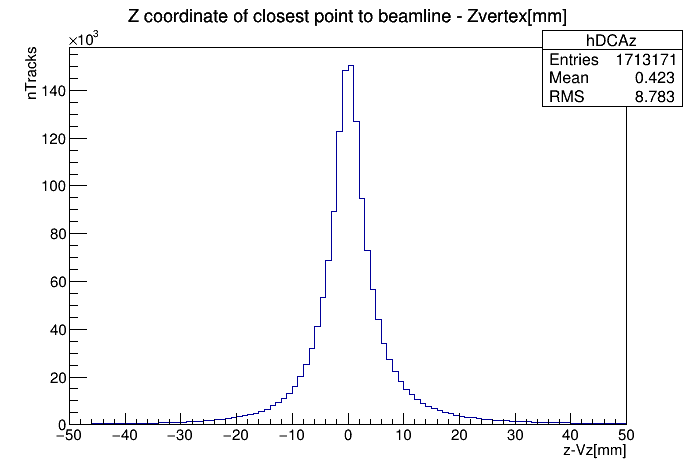
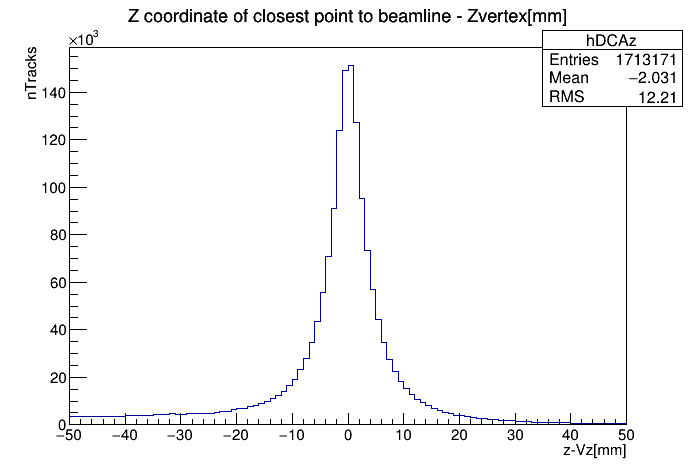
pics

diff --git a/results/DCAz.C b/results/DCAz.C
@@ -1,8 +1,8 @@
 {
 //=========Macro generated from canvas: c1/c1
-//=========  (Fri Nov 24 11:59:22 2017) by ROOT version5.34/34
+//=========  (Fri Nov 24 12:02:53 2017) by ROOT version5.34/34
    TCanvas *c1 = new TCanvas("c1", "c1",0,0,700,500);
-   c1->Range(-62.5,-19761.66,62.5,177854.9);
+   c1->Range(-62.5,-19872.83,62.5,178855.4);
    c1->SetFillColor(0);
    c1->SetBorderMode(0);
    c1->SetBorderSize(2);
@@ -10,108 +10,108 @@
    c1->SetFrameBorderMode(0);
    
    TH1F *hDCAz = new TH1F("hDCAz","Z coordinate of closest point to beamline - Zvertex[mm]",100,-50,50);
-   hDCAz->SetBinContent(0,197875);
-   hDCAz->SetBinContent(1,260);
-   hDCAz->SetBinContent(2,263);
-   hDCAz->SetBinContent(3,289);
-   hDCAz->SetBinContent(4,291);
-   hDCAz->SetBinContent(5,338);
-   hDCAz->SetBinContent(6,381);
-   hDCAz->SetBinContent(7,363);
-   hDCAz->SetBinContent(8,406);
-   hDCAz->SetBinContent(9,436);
-   hDCAz->SetBinContent(10,453);
-   hDCAz->SetBinContent(11,490);
-   hDCAz->SetBinContent(12,601);
-   hDCAz->SetBinContent(13,565);
-   hDCAz->SetBinContent(14,647);
-   hDCAz->SetBinContent(15,697);
-   hDCAz->SetBinContent(16,751);
-   hDCAz->SetBinContent(17,767);
-   hDCAz->SetBinContent(18,896);
-   hDCAz->SetBinContent(19,907);
-   hDCAz->SetBinContent(20,1066);
-   hDCAz->SetBinContent(21,1139);
-   hDCAz->SetBinContent(22,1288);
-   hDCAz->SetBinContent(23,1473);
-   hDCAz->SetBinContent(24,1549);
-   hDCAz->SetBinContent(25,1659);
-   hDCAz->SetBinContent(26,1822);
-   hDCAz->SetBinContent(27,2053);
-   hDCAz->SetBinContent(28,2367);
-   hDCAz->SetBinContent(29,2541);
-   hDCAz->SetBinContent(30,2949);
-   hDCAz->SetBinContent(31,3358);
-   hDCAz->SetBinContent(32,3699);
-   hDCAz->SetBinContent(33,4306);
-   hDCAz->SetBinContent(34,4922);
-   hDCAz->SetBinContent(35,5631);
-   hDCAz->SetBinContent(36,6548);
-   hDCAz->SetBinContent(37,8027);
-   hDCAz->SetBinContent(38,9157);
-   hDCAz->SetBinContent(39,10924);
-   hDCAz->SetBinContent(40,13198);
-   hDCAz->SetBinContent(41,15970);
-   hDCAz->SetBinContent(42,20122);
-   hDCAz->SetBinContent(43,25086);
-   hDCAz->SetBinContent(44,32054);
-   hDCAz->SetBinContent(45,41095);
-   hDCAz->SetBinContent(46,53184);
-   hDCAz->SetBinContent(47,68961);
-   hDCAz->SetBinContent(48,89469);
-   hDCAz->SetBinContent(49,122799);
-   hDCAz->SetBinContent(50,148171);
-   hDCAz->SetBinContent(51,150565);
-   hDCAz->SetBinContent(52,126801);
-   hDCAz->SetBinContent(53,94900);
-   hDCAz->SetBinContent(54,72889);
-   hDCAz->SetBinContent(55,56539);
-   hDCAz->SetBinContent(56,44029);
-   hDCAz->SetBinContent(57,34195);
-   hDCAz->SetBinContent(58,27328);
-   hDCAz->SetBinContent(59,22183);
-   hDCAz->SetBinContent(60,18087);
-   hDCAz->SetBinContent(61,14906);
-   hDCAz->SetBinContent(62,12493);
-   hDCAz->SetBinContent(63,10480);
-   hDCAz->SetBinContent(64,9126);
-   hDCAz->SetBinContent(65,7805);
-   hDCAz->SetBinContent(66,6799);
-   hDCAz->SetBinContent(67,5823);
-   hDCAz->SetBinContent(68,5150);
-   hDCAz->SetBinContent(69,4593);
-   hDCAz->SetBinContent(70,4006);
-   hDCAz->SetBinContent(71,3655);
-   hDCAz->SetBinContent(72,3228);
-   hDCAz->SetBinContent(73,2974);
-   hDCAz->SetBinContent(74,2613);
-   hDCAz->SetBinContent(75,2390);
-   hDCAz->SetBinContent(76,2181);
-   hDCAz->SetBinContent(77,2002);
-   hDCAz->SetBinContent(78,1819);
-   hDCAz->SetBinContent(79,1649);
-   hDCAz->SetBinContent(80,1573);
-   hDCAz->SetBinContent(81,1486);
-   hDCAz->SetBinContent(82,1311);
-   hDCAz->SetBinContent(83,1240);
-   hDCAz->SetBinContent(84,1114);
-   hDCAz->SetBinContent(85,1052);
-   hDCAz->SetBinContent(86,987);
-   hDCAz->SetBinContent(87,923);
-   hDCAz->SetBinContent(88,812);
-   hDCAz->SetBinContent(89,841);
-   hDCAz->SetBinContent(90,761);
-   hDCAz->SetBinContent(91,709);
-   hDCAz->SetBinContent(92,651);
-   hDCAz->SetBinContent(93,605);
-   hDCAz->SetBinContent(94,621);
-   hDCAz->SetBinContent(95,595);
-   hDCAz->SetBinContent(96,544);
-   hDCAz->SetBinContent(97,508);
-   hDCAz->SetBinContent(98,456);
-   hDCAz->SetBinContent(99,474);
-   hDCAz->SetBinContent(100,453);
-   hDCAz->SetBinContent(101,29984);
+   hDCAz->SetBinContent(0,35521);
+   hDCAz->SetBinContent(1,3371);
+   hDCAz->SetBinContent(2,3446);
+   hDCAz->SetBinContent(3,3514);
+   hDCAz->SetBinContent(4,3424);
+   hDCAz->SetBinContent(5,3520);
+   hDCAz->SetBinContent(6,3630);
+   hDCAz->SetBinContent(7,3398);
+   hDCAz->SetBinContent(8,3572);
+   hDCAz->SetBinContent(9,3696);
+   hDCAz->SetBinContent(10,3678);
+   hDCAz->SetBinContent(11,3834);
+   hDCAz->SetBinContent(12,3888);
+   hDCAz->SetBinContent(13,3972);
+   hDCAz->SetBinContent(14,3915);
+   hDCAz->SetBinContent(15,4026);
+   hDCAz->SetBinContent(16,4146);
+   hDCAz->SetBinContent(17,4284);
+   hDCAz->SetBinContent(18,4370);
+   hDCAz->SetBinContent(19,4575);
+   hDCAz->SetBinContent(20,4503);
+   hDCAz->SetBinContent(21,4426);
+   hDCAz->SetBinContent(22,4572);
+   hDCAz->SetBinContent(23,4708);
+   hDCAz->SetBinContent(24,4675);
+   hDCAz->SetBinContent(25,4798);
+   hDCAz->SetBinContent(26,4898);
+   hDCAz->SetBinContent(27,5301);
+   hDCAz->SetBinContent(28,5610);
+   hDCAz->SetBinContent(29,5681);
+   hDCAz->SetBinContent(30,6246);
+   hDCAz->SetBinContent(31,6688);
+   hDCAz->SetBinContent(32,7013);
+   hDCAz->SetBinContent(33,7568);
+   hDCAz->SetBinContent(34,8230);
+   hDCAz->SetBinContent(35,8933);
+   hDCAz->SetBinContent(36,9816);
+   hDCAz->SetBinContent(37,11212);
+   hDCAz->SetBinContent(38,12447);
+   hDCAz->SetBinContent(39,14174);
+   hDCAz->SetBinContent(40,16345);
+   hDCAz->SetBinContent(41,19036);
+   hDCAz->SetBinContent(42,23122);
+   hDCAz->SetBinContent(43,27830);
+   hDCAz->SetBinContent(44,34747);
+   hDCAz->SetBinContent(45,43638);
+   hDCAz->SetBinContent(46,55617);
+   hDCAz->SetBinContent(47,70877);
+   hDCAz->SetBinContent(48,91050);
+   hDCAz->SetBinContent(49,124081);
+   hDCAz->SetBinContent(50,149212);
+   hDCAz->SetBinContent(51,151412);
+   hDCAz->SetBinContent(52,127423);
+   hDCAz->SetBinContent(53,95446);
+   hDCAz->SetBinContent(54,73385);
+   hDCAz->SetBinContent(55,56965);
+   hDCAz->SetBinContent(56,44386);
+   hDCAz->SetBinContent(57,34512);
+   hDCAz->SetBinContent(58,27586);
+   hDCAz->SetBinContent(59,22383);
+   hDCAz->SetBinContent(60,18307);
+   hDCAz->SetBinContent(61,15080);
+   hDCAz->SetBinContent(62,12675);
+   hDCAz->SetBinContent(63,10627);
+   hDCAz->SetBinContent(64,9277);
+   hDCAz->SetBinContent(65,7929);
+   hDCAz->SetBinContent(66,6926);
+   hDCAz->SetBinContent(67,5935);
+   hDCAz->SetBinContent(68,5250);
+   hDCAz->SetBinContent(69,4684);
+   hDCAz->SetBinContent(70,4095);
+   hDCAz->SetBinContent(71,3735);
+   hDCAz->SetBinContent(72,3291);
+   hDCAz->SetBinContent(73,3052);
+   hDCAz->SetBinContent(74,2678);
+   hDCAz->SetBinContent(75,2448);
+   hDCAz->SetBinContent(76,2239);
+   hDCAz->SetBinContent(77,2058);
+   hDCAz->SetBinContent(78,1894);
+   hDCAz->SetBinContent(79,1715);
+   hDCAz->SetBinContent(80,1624);
+   hDCAz->SetBinContent(81,1525);
+   hDCAz->SetBinContent(82,1358);
+   hDCAz->SetBinContent(83,1280);
+   hDCAz->SetBinContent(84,1150);
+   hDCAz->SetBinContent(85,1094);
+   hDCAz->SetBinContent(86,1021);
+   hDCAz->SetBinContent(87,960);
+   hDCAz->SetBinContent(88,851);
+   hDCAz->SetBinContent(89,882);
+   hDCAz->SetBinContent(90,793);
+   hDCAz->SetBinContent(91,744);
+   hDCAz->SetBinContent(92,683);
+   hDCAz->SetBinContent(93,626);
+   hDCAz->SetBinContent(94,648);
+   hDCAz->SetBinContent(95,619);
+   hDCAz->SetBinContent(96,571);
+   hDCAz->SetBinContent(97,534);
+   hDCAz->SetBinContent(98,472);
+   hDCAz->SetBinContent(99,501);
+   hDCAz->SetBinContent(100,481);
+   hDCAz->SetBinContent(101,32527);
    hDCAz->SetEntries(1713171);
    
    TPaveStats *ptstats = new TPaveStats(0.78,0.775,0.98,0.935,"brNDC");
@@ -123,8 +123,8 @@
    TText *text = ptstats->AddText("hDCAz");
    text->SetTextSize(0.0368);
    text = ptstats->AddText("Entries = 1713171");
-   text = ptstats->AddText("Mean  =  0.423");
-   text = ptstats->AddText("RMS   =  8.783");
+   text = ptstats->AddText("Mean  = -2.031");
+   text = ptstats->AddText("RMS   =  12.21");
    ptstats->SetOptStat(1111);
    ptstats->SetOptFit(0);
    ptstats->Draw();

diff --git a/results/MetaDxy.C b/results/MetaDxy.C
@@ -1,6 +1,6 @@
 {
 //=========Macro generated from canvas: c1/c1
-//=========  (Fri Nov 24 11:59:21 2017) by ROOT version5.34/34
+//=========  (Fri Nov 24 12:02:53 2017) by ROOT version5.34/34
    TCanvas *c1 = new TCanvas("c1", "c1",0,0,700,500);
    c1->Range(-12.5,-963.7688,112.5,8673.919);
    c1->SetFillColor(0);

diff --git a/results/DCAxy.C b/results/DCAxy.C
@@ -1,6 +1,6 @@
 {
 //=========Macro generated from canvas: c1/c1
-//=========  (Fri Nov 24 11:59:21 2017) by ROOT version5.34/34
+//=========  (Fri Nov 24 12:02:53 2017) by ROOT version5.34/34
    TCanvas *c1 = new TCanvas("c1", "c1",0,0,700,500);
    c1->Range(-62.5,-32645.95,62.5,293813.5);
    c1->SetFillColor(0);

diff --git a/results/SecID.C b/results/SecID.C
@@ -1,6 +1,6 @@
 {
 //=========Macro generated from canvas: c1/c1
-//=========  (Fri Nov 24 11:59:22 2017) by ROOT version5.34/34
+//=========  (Fri Nov 24 12:02:53 2017) by ROOT version5.34/34
    TCanvas *c1 = new TCanvas("c1", "c1",0,0,700,500);
    c1->Range(-1.25,260981.2,6.25,304918.5);
    c1->SetFillColor(0);

diff --git a/results/Chi2.C b/results/Chi2.C
@@ -1,6 +1,6 @@
 {
 //=========Macro generated from canvas: c1/c1
-//=========  (Fri Nov 24 11:59:21 2017) by ROOT version5.34/34
+//=========  (Fri Nov 24 12:02:53 2017) by ROOT version5.34/34
    TCanvas *c1 = new TCanvas("c1", "c1",0,0,700,500);
    c1->Range(-25,-8764.876,225,78883.88);
    c1->SetFillColor(0);

diff --git a/results/PCorr.C b/results/PCorr.C
@@ -1,6 +1,6 @@
 {
 //=========Macro generated from canvas: c1/c1
-//=========  (Fri Nov 24 11:59:22 2017) by ROOT version5.34/34
+//=========  (Fri Nov 24 12:02:53 2017) by ROOT version5.34/34
    TCanvas *c1 = new TCanvas("c1", "c1",0,0,700,500);
    c1->Range(-250,-0.0125,2250,0.1125);
    c1->SetFillColor(0);
